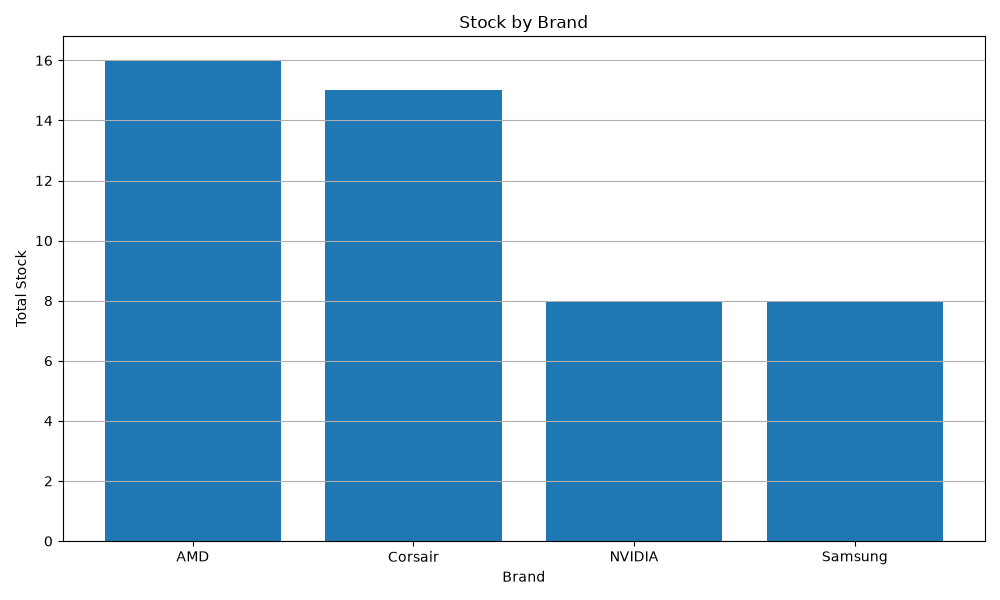
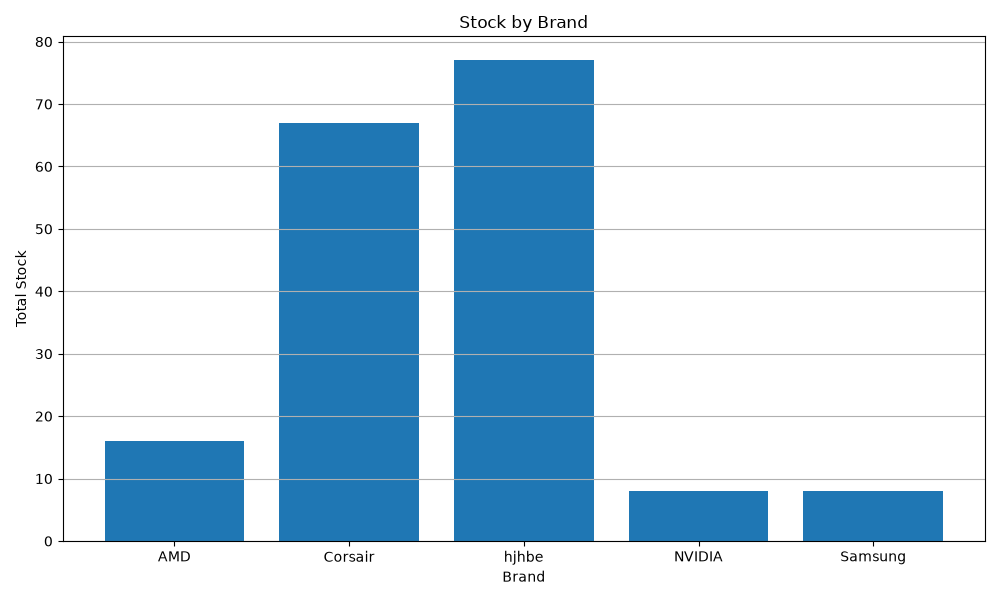
improve more css pages

diff --git a/templates/edit_product.html b/templates/edit_product.html
@@ -7,48 +7,104 @@
 </head>
 <body>
 
-<h1>Edit Product</h1>
+<div class="container mt-5">
 
-<form method="POST">
+    <div class="row justify-content-center">
 
-    <label>Product Name:</label><br>
-    <input type="text"
-           name="product_name"
-           value="{{ product.ProductName }}"
-           required><br><br>
+        <div class="col-md-6">
 
-    <label>Brand:</label><br>
-    <input type="text"
-           name="brand"
-           value="{{ product.Brand }}"
-           required><br><br>
+            <div class="card shadow">
 
-    <label>Category:</label><br>
-    <input type="text"
-           name="category"
-           value="{{ product.Category }}"
-           required><br><br>
+                <div class="card-header text-center">
+                    <h2>Edit Product</h2>
+                </div>
 
-    <label>Price:</label><br>
-    <input type="number"
-           step="0.01"
-           name="price"
-           value="{{ product.Price }}"
-           required><br><br>
+                <div class="card-body">
 
-    <label>Quantity:</label><br>
-    <input type="number"
-           name="quantity"
-           value="{{ product.Quantity }}"
-           required><br><br>
+                    <form method="POST">
 
-    <button type="submit">Update Product</button>
+                        <div class="mb-3">
+                            <label class="form-label">Product Name</label>
+                            <input
+                                type="text"
+                                class="form-control"
+                                name="product_name"
+                                value="{{ product.ProductName }}"
+                                required>
+                        </div>
 
-</form>
+                        <div class="mb-3">
+                            <label class="form-label">Brand</label>
+                            <input
+                                type="text"
+                                class="form-control"
+                                name="brand"
+                                value="{{ product.Brand }}"
+                                required>
+                        </div>
 
-<br>
+                        <div class="mb-3">
+                            <label class="form-label">Category</label>
+                            <input
+                                type="text"
+                                class="form-control"
+                                name="category"
+                                value="{{ product.Category }}"
+                                required>
+                        </div>
 
-<a href="/">Back to Inventory</a>
+                        <div class="mb-3">
+                            <label class="form-label">Price</label>
+                            <input
+                                type="number"
+                                step="0.01"
+                                class="form-control"
+                                name="price"
+                                value="{{ product.Price }}"
+                                required>
+                        </div>
+
+                        <div class="mb-3">
+                            <label class="form-label">Quantity</label>
+                            <input
+                                type="number"
+                                class="form-control"
+                                name="quantity"
+                                value="{{ product.Quantity }}"
+                                required>
+                        </div>
+
+                        <div class="d-grid gap-2">
+
+                            <button
+                                type="submit"
+                                class="btn btn-warning">
+
+                                Update Product
+
+                            </button>
+
+                            <a
+                                href="/"
+                                class="btn btn-secondary">
+
+                                Back to Inventory
+
+                            </a>
+
+                        </div>
+
+                    </form>
+
+                </div>
+
+            </div>
+
+        </div>
+
+    </div>
+
+</div>
 
 </body>
 </html>

diff --git a/templates/add_product.html b/templates/add_product.html
@@ -5,33 +5,103 @@
     <link href="https://cdn.jsdelivr.net/npm/bootstrap@5.3.3/dist/css/bootstrap.min.css" rel="stylesheet">
     <link rel="stylesheet" href="{{ url_for('static', filename='style.css') }}">
 </head>
+
 <body>
 
-<h1>Add Product</h1>
+<div class="container mt-5">
 
-<form method="POST">
+    <div class="row justify-content-center">
 
-    <label>Product Name:</label><br>
-    <input type="text" name="product_name" required><br><br>
+        <div class="col-md-6">
 
-    <label>Brand:</label><br>
-    <input type="text" name="brand" required><br><br>
+            <div class="card shadow">
 
-    <label>Category:</label><br>
-    <input type="text" name="category" required><br><br>
+                <div class="card-header text-center">
+                    <h2>Add New Product</h2>
+                </div>
 
-    <label>Price:</label><br>
-    <input type="number" step="0.01" name="price" required><br><br>
+                <div class="card-body">
 
-    <label>Quantity:</label><br>
-    <input type="number" name="quantity" required><br><br>
+                    <form method="POST">
 
-    <button type="submit">Add Product</button>
+                        <div class="mb-3">
+                            <label class="form-label">Product Name</label>
+                            <input
+                                type="text"
+                                class="form-control"
+                                name="product_name"
+                                required>
+                        </div>
 
-</form>
+                        <div class="mb-3">
+                            <label class="form-label">Brand</label>
+                            <input
+                                type="text"
+                                class="form-control"
+                                name="brand"
+                                required>
+                        </div>
 
-<br>
-<a href="/">Back to Inventory</a>
+                        <div class="mb-3">
+                            <label class="form-label">Category</label>
+                            <input
+                                type="text"
+                                class="form-control"
+                                name="category"
+                                required>
+                        </div>
+
+                        <div class="mb-3">
+                            <label class="form-label">Price</label>
+                            <input
+                                type="number"
+                                step="0.01"
+                                class="form-control"
+                                name="price"
+                                required>
+                        </div>
+
+                        <div class="mb-3">
+                            <label class="form-label">Quantity</label>
+                            <input
+                                type="number"
+                                class="form-control"
+                                name="quantity"
+                                required>
+                        </div>
+
+                        <div class="d-grid gap-2">
+
+                            <button
+                                type="submit"
+                                class="btn btn-success">
+
+                                Add Product
+
+                            </button>
+
+                            <a
+                                href="/"
+                                class="btn btn-secondary">
+
+                                Back to Inventory
+
+                            </a>
+
+                        </div>
+
+                    </form>
+
+                </div>
+
+            </div>
+
+        </div>
+
+    </div>
+
+</div>
 
 </body>
+
 </html>

diff --git a/templates/import_csv.html b/templates/import_csv.html
@@ -7,21 +7,72 @@
 </head>
 <body>
 
-    <h1>Import Products from CSV</h1>
+<div class="container mt-5">
 
-    <form method="POST" enctype="multipart/form-data">
+    <div class="row justify-content-center">
 
-        <input type="file" name="csv_file" required>
+        <div class="col-md-6">
 
-        <button type="submit">
-            Upload CSV
-        </button>
+            <div class="card shadow">
 
-    </form>
+                <div class="card-header text-center">
+                    <h2>CSV Synchronization</h2>
+                </div>
 
-    <br>
+                <div class="card-body">
 
-    <a href="/">Back to Home</a>
+                    <p class="text-muted text-center">
+                        Upload a CSV file to synchronize products with the inventory database.
+                    </p>
+
+                    <form method="POST" enctype="multipart/form-data">
+
+                        <div class="mb-3">
+
+                            <label class="form-label">
+                                Select CSV File
+                            </label>
+
+                            <input
+                                type="file"
+                                class="form-control"
+                                name="csv_file"
+                                accept=".csv"
+                                required>
+
+                        </div>
+
+                        <div class="d-grid gap-2">
+
+                            <button
+                                type="submit"
+                                class="btn btn-primary">
+
+                                Sync CSV
+
+                            </button>
+
+                            <a
+                                href="/"
+                                class="btn btn-secondary">
+
+                                Back to Home
+
+                            </a>
+
+                        </div>
+
+                    </form>
+
+                </div>
+
+            </div>
+
+        </div>
+
+    </div>
+
+</div>
 
 </body>
 </html>
